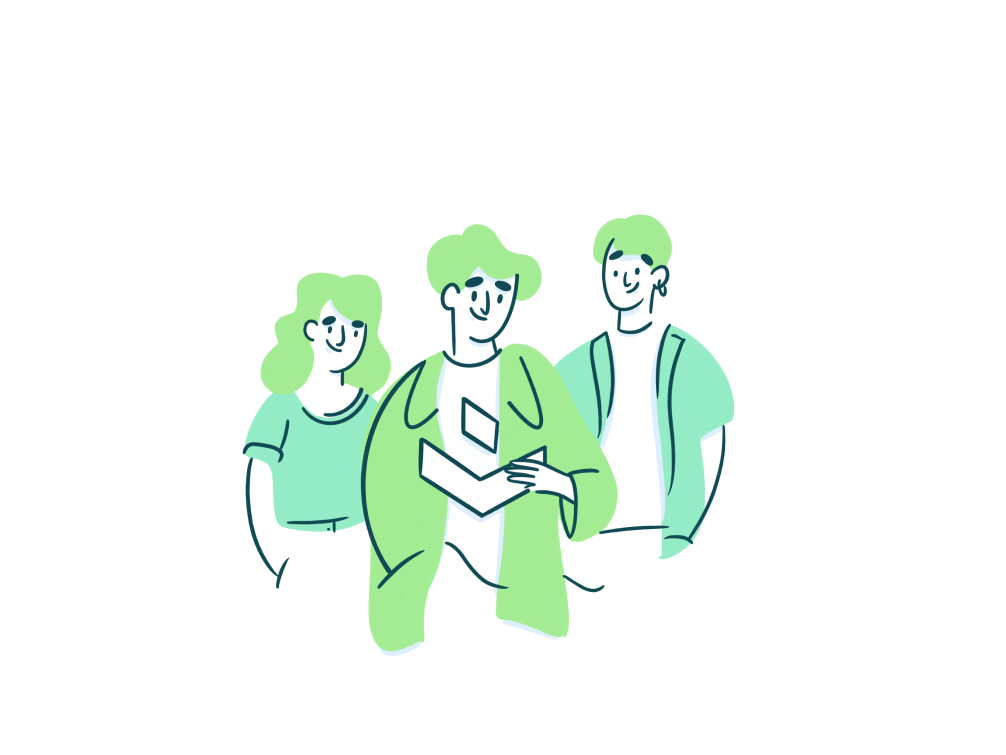
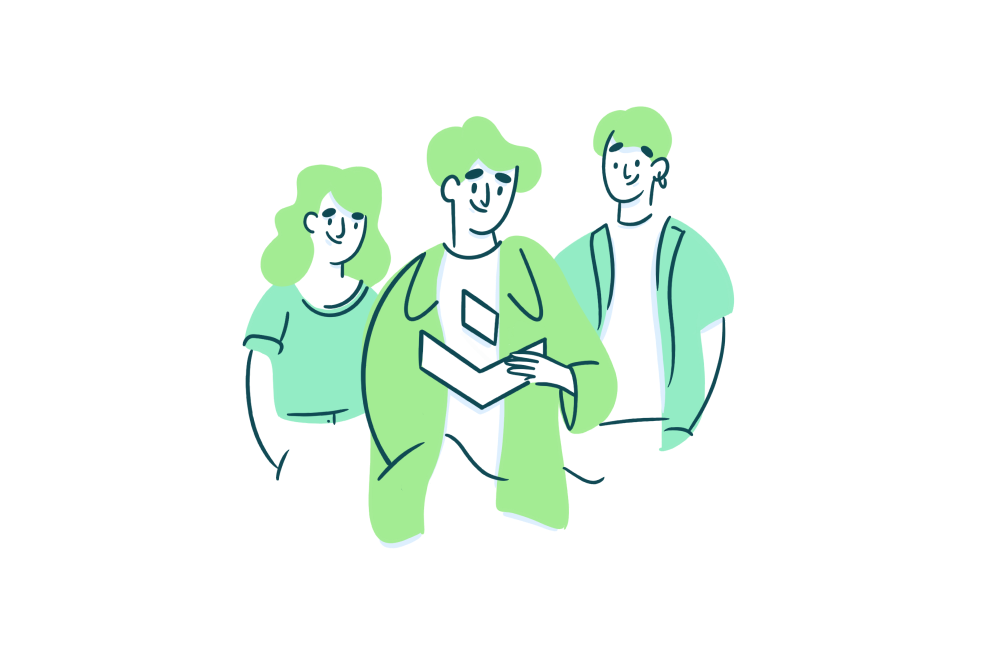
[VPLZ-192] Card Improvement (#89)
* [VPLZ-192] Card Improvement

* [VPLZ-192] Changed the image `create-proposal.png`

Changed region(s): [[0.2465, 0.1546, 0.7396, 0.8655]]

diff --git a/components/pages/dashboard/create-proposal-card.tsx b/components/pages/dashboard/create-proposal-card.tsx
@@ -34,4 +34,6 @@ const CreateProposalImageContainer = styled.div`
 `
 const CreateProposalButtonContainer = styled.div`
   text-align: center;
+  padding-top: 10px;
+  padding-bottom: 10px;
 `
